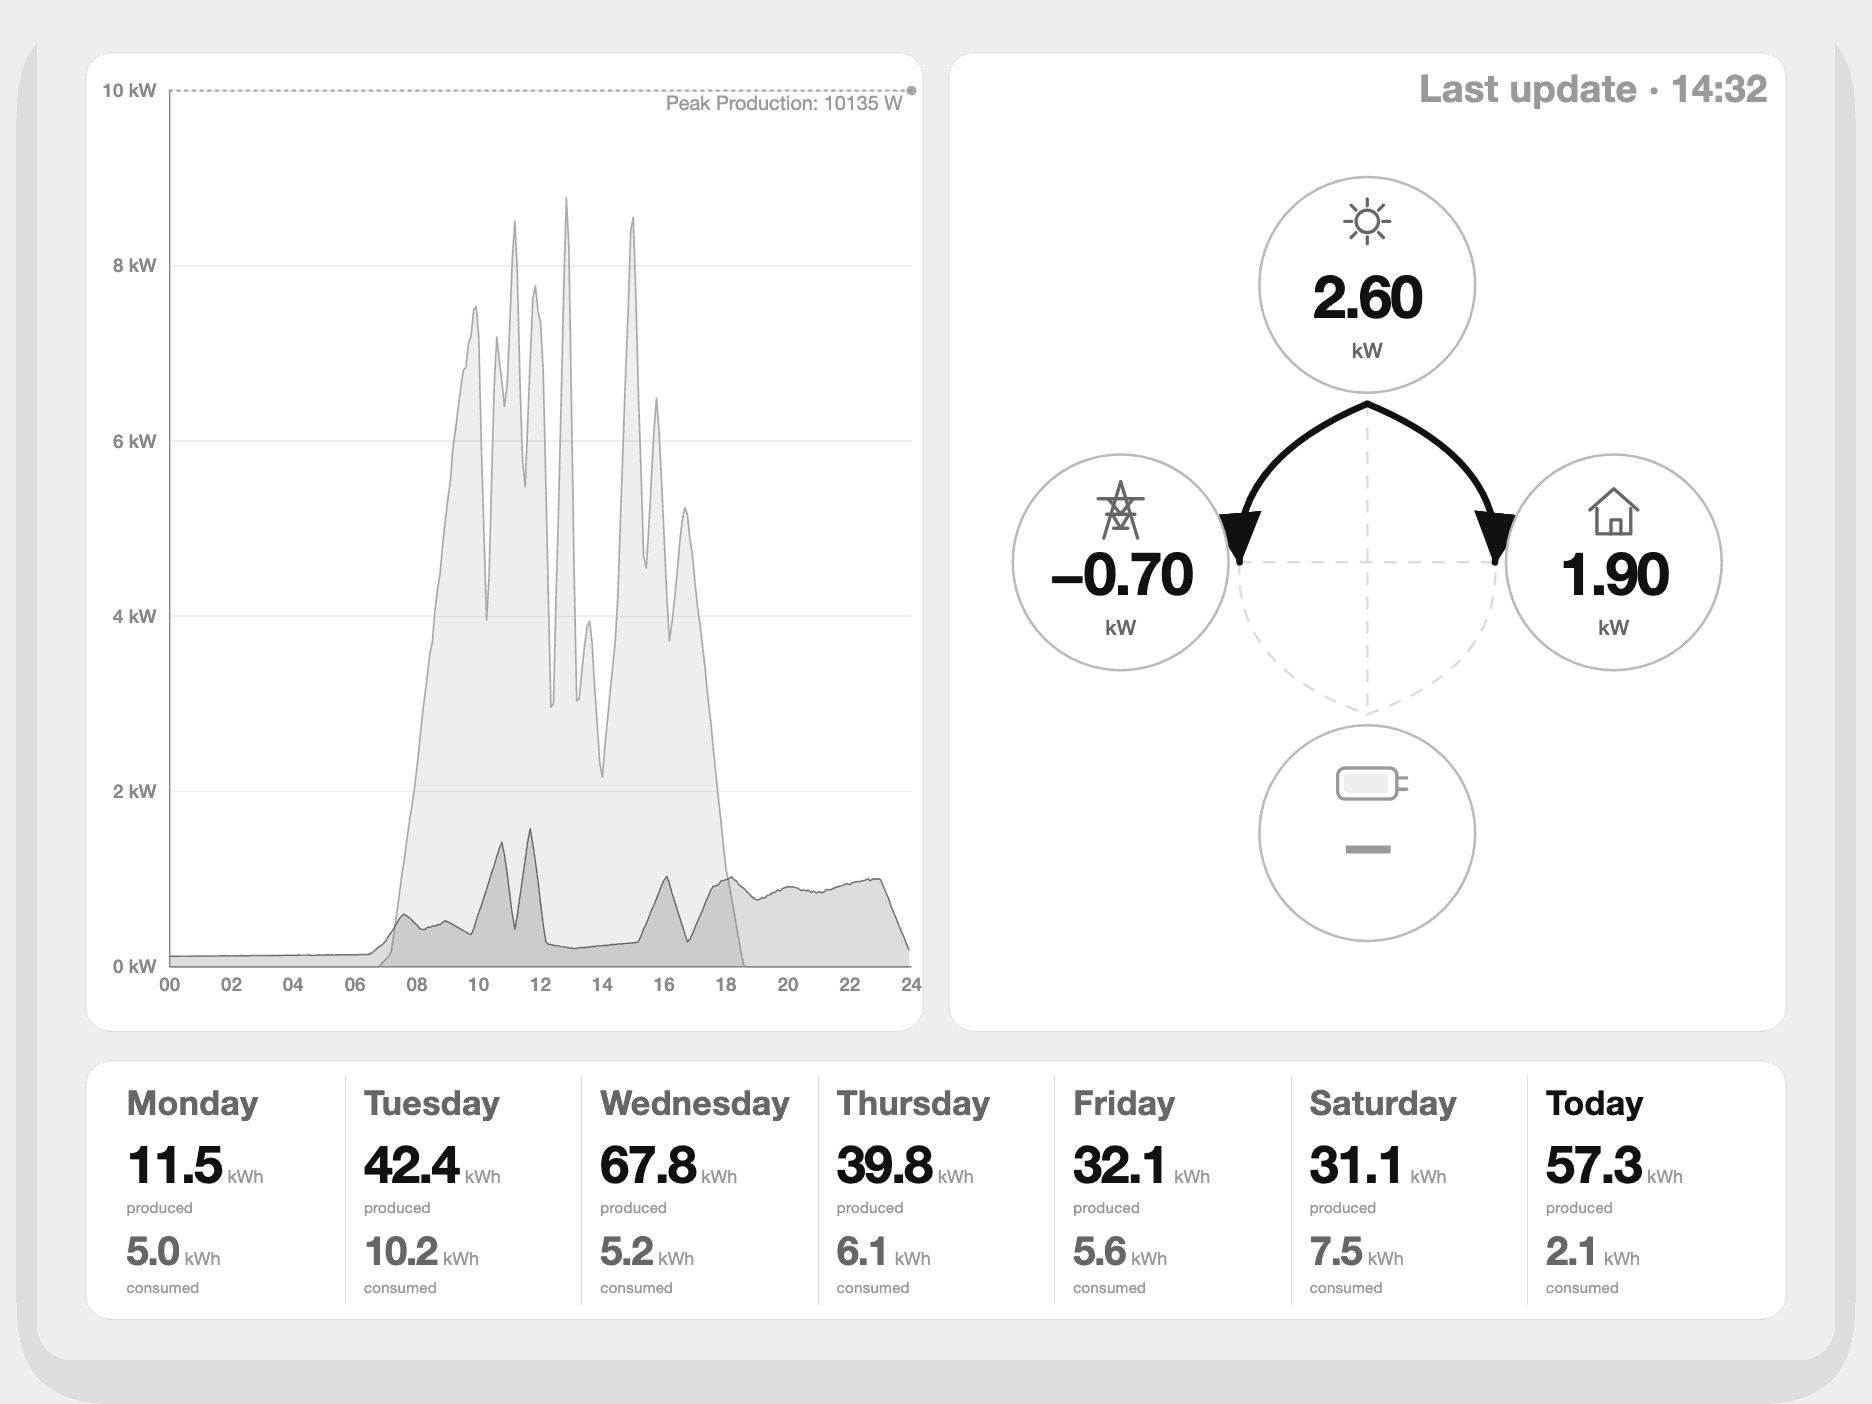
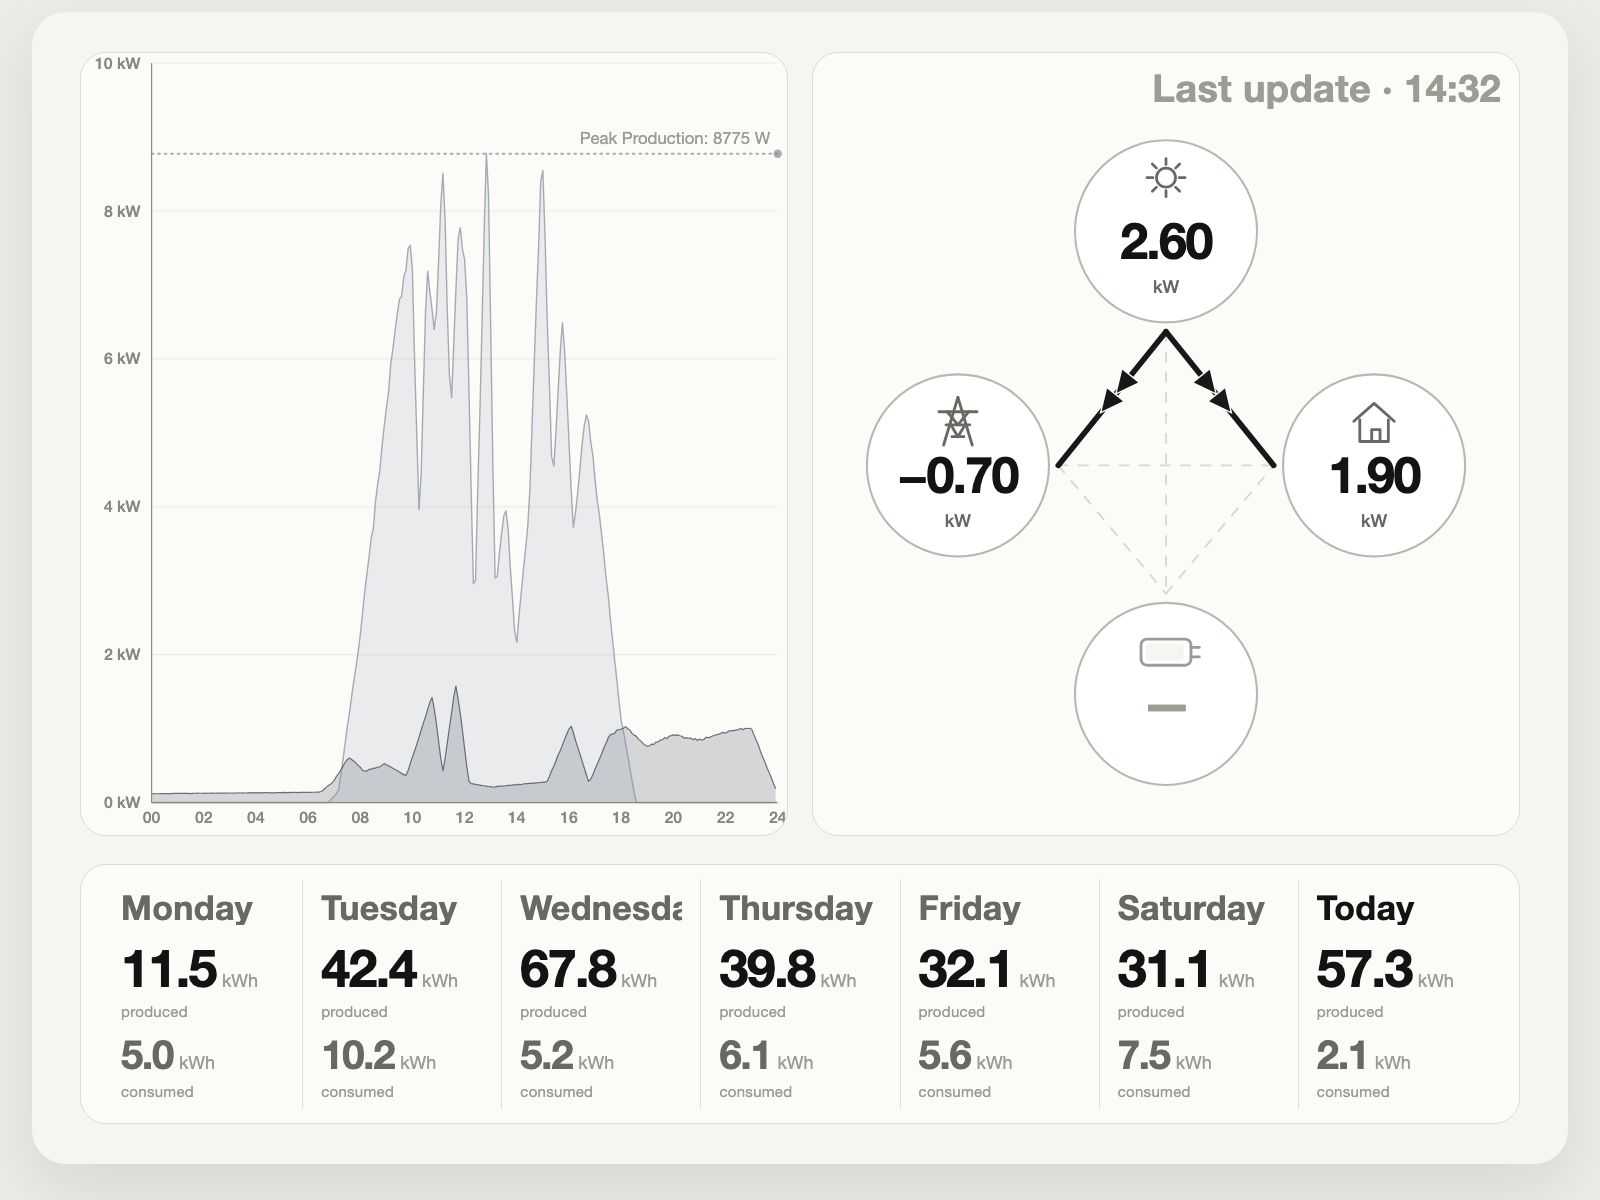
Polish live flow arrows and refresh docs

diff --git a/src/static/dashboard.css b/src/static/dashboard.css
@@ -229,6 +229,13 @@ body {
     stroke-width: 6;
 }
 
+.flow-arrow path {
+    fill: var(--flow-active);
+    stroke: var(--panel-bg);
+    stroke-width: 3;
+    paint-order: stroke fill;
+}
+
 .flow-state {
     fill: var(--text-muted);
     font-family: inherit;

diff --git a/src/html_renderer.py b/src/html_renderer.py
@@ -22,7 +22,7 @@ _FLOW_KEYS = [
     ("grid", "battery"),
     ("battery", "home"),
 ]
-_STRAIGHT_PATHS = {("solar", "battery"), ("grid", "home")}
+_STRAIGHT_PATHS = set(_FLOW_KEYS)
 
 
 def _local_timezone() -> ZoneInfo:
@@ -223,6 +223,42 @@ def _flow_path_d(
     )
 
 
+def _flow_point_and_angle(
+    key: tuple[str, str],
+    start: tuple[float, float],
+    end: tuple[float, float],
+    center: tuple[float, float],
+    *,
+    t: float = 0.5,
+    is_straight: bool,
+) -> tuple[float, float, float]:
+    if is_straight:
+        mid_x = start[0] + ((end[0] - start[0]) * t)
+        mid_y = start[1] + ((end[1] - start[1]) * t)
+        dx = end[0] - start[0]
+        dy = end[1] - start[1]
+    else:
+        control_points = {
+            ("solar", "grid"): (center[0] - 124, center[1] - 92),
+            ("solar", "home"): (center[0] + 126, center[1] - 92),
+            ("grid", "battery"): (center[0] - 122, center[1] + 96),
+            ("battery", "home"): (center[0] + 122, center[1] + 96),
+        }
+        cx, cy = control_points.get(key, center)
+        mt = 1 - t
+        mid_x = (mt * mt * start[0]) + (2 * mt * t * cx) + (t * t * end[0])
+        mid_y = (mt * mt * start[1]) + (2 * mt * t * cy) + (t * t * end[1])
+        dx = 2 * mt * (cx - start[0]) + 2 * t * (end[0] - cx)
+        dy = 2 * mt * (cy - start[1]) + 2 * t * (end[1] - cy)
+
+    angle = 0.0
+    if dx or dy:
+        import math
+
+        angle = math.degrees(math.atan2(dy, dx))
+    return mid_x, mid_y, angle
+
+
 def _build_flow_svg(data: DashboardData, language: str) -> Markup:
     width, height = 760, 760
     cx = width / 2
@@ -257,6 +293,7 @@ def _build_flow_svg(data: DashboardData, language: str) -> Markup:
         )
 
     path_markup: list[str] = []
+    arrow_markup: list[str] = []
     for key in _FLOW_KEYS:
         path_d = _flow_path_d(
             key,
@@ -278,8 +315,26 @@ def _build_flow_svg(data: DashboardData, language: str) -> Markup:
                 is_straight=key in _STRAIGHT_PATHS,
             )
             path_markup.append(
-                f'<path class="flow-path flow-path--active" d="{path_d}" marker-end="url(#flow-arrow-active)" />'
+                f'<path class="flow-path flow-path--active" d="{path_d}" />'
             )
+            arrow_x, arrow_y, arrow_angle = _flow_point_and_angle(
+                key,
+                edges[key[0]],
+                edges[key[1]],
+                center,
+                t=0.5,
+                is_straight=key in _STRAIGHT_PATHS,
+            )
+            import math
+
+            offset_dx = math.cos(math.radians(arrow_angle)) * 13
+            offset_dy = math.sin(math.radians(arrow_angle)) * 13
+            for direction in (-1, 1):
+                arrow_markup.append(
+                    f'<g class="flow-arrow" transform="translate({arrow_x + (direction * offset_dx):.1f} {arrow_y + (direction * offset_dy):.1f}) rotate({arrow_angle:.1f})">'
+                    '<path d="M -18 -11 L 5 0 L -18 11 Z" />'
+                    '</g>'
+                )
 
     node_state = _node_state(data, language)
     node_markup: list[str] = []
@@ -309,13 +364,11 @@ def _build_flow_svg(data: DashboardData, language: str) -> Markup:
 
     svg = f"""
     <svg class="flow-svg" viewBox="0 0 {width} {height}" xmlns="{SVG_NS}" role="img" aria-label="{escape(tr(language, 'flow_aria'))}">
-      <defs>
-        <marker id="flow-arrow-active" markerWidth="11" markerHeight="11" refX="7.5" refY="4" orient="auto" markerUnits="strokeWidth">
-          <path d="M0,0 L0,8 L8,4 z" fill="var(--flow-active)" />
-        </marker>
-      </defs>
       <g class="flow-paths">
         {''.join(path_markup)}
+      </g>
+      <g class="flow-arrows">
+        {''.join(arrow_markup)}
       </g>
       <g class="flow-nodes">
         {''.join(node_markup)}
@@ -361,10 +414,10 @@ def _build_chart_svg(data: DashboardData, language: str) -> Markup:
         return plot_left + (plot_width * hours / 24.0)
 
     buckets = data.chart_buckets
+    chart_peak_production_w = max((bucket.p_w_avg for bucket in buckets), default=0.0)
     max_power = max(
-        max((bucket.p_w_avg for bucket in buckets), default=0.0),
+        chart_peak_production_w,
         max((bucket.c_w_avg for bucket in buckets), default=0.0),
-        data.peak_production_w,
     )
     padded_peak = max_power * 1.02
     y_max = max(4000, int(((padded_peak + 1999) // 2000) * 2000))
@@ -409,8 +462,9 @@ def _build_chart_svg(data: DashboardData, language: str) -> Markup:
     consumption_line = _chart_line_path(consumption_points)
     peak_line_markup = ""
     peak_label_markup = ""
-    if data.peak_production_w > 0:
-        peak_y = power_to_y(data.peak_production_w)
+    marker_peak_w = chart_peak_production_w or data.peak_production_w
+    if marker_peak_w > 0:
+        peak_y = power_to_y(marker_peak_w)
         label_y = min(max(plot_top + 18, peak_y - 10), plot_bottom - 8)
         peak_line_markup = (
             f'<line class="chart-peak-line" x1="{plot_left:.1f}" y1="{peak_y:.1f}" '
@@ -418,7 +472,7 @@ def _build_chart_svg(data: DashboardData, language: str) -> Markup:
             f'<circle class="chart-peak-dot" cx="{plot_right:.1f}" cy="{peak_y:.1f}" r="4.5" />'
         )
         peak_label = (
-            f"{tr(language, 'peak_production')}: {_format_watts_label(data.peak_production_w)}"
+            f"{tr(language, 'peak_production')}: {_format_watts_label(marker_peak_w)}"
         )
         peak_label_markup = (
             f'<text class="chart-peak-label" x="{plot_right - 8:.1f}" y="{label_y:.1f}" '

diff --git a/tests/test_html_renderer.py b/tests/test_html_renderer.py
@@ -77,7 +77,7 @@ def test_peak_marker_uses_raw_peak_for_y_scale_not_only_bucket_average():
 
     chart = str(build_dashboard_context(data)["chart_svg"])
 
-    assert 'Peak Production: 10135 W' in chart
+    assert 'Peak Production: 5200 W' in chart
     assert '<line class="chart-peak-line" x1="76.0" y1="10.0"' not in chart
 
 
@@ -174,6 +174,18 @@ def test_flask_preview_scenario_preserves_peak_marker():
     assert response.status_code == 200
     assert "chart-peak-line" in body
     assert "Peak Production: 1221 W" in body
+
+
+def test_flow_active_paths_use_midline_arrow_glyphs():
+    data = DashboardData(
+        live=_make_live(p_w=4200, c_w=1800, bc_w=800, bd_w=0),
+        daily_history=_make_history(),
+    )
+
+    flow_svg = str(build_dashboard_context(data)["flow_svg"])
+
+    assert 'marker-end=' not in flow_svg
+    assert flow_svg.count('class="flow-arrow"') >= 2
 
 
 def test_flask_preview_scenarios_index_lists_links():

diff --git a/README.md b/README.md
@@ -13,8 +13,9 @@ A Raspberry Pi wall dashboard for Solar Manager with a Figma-aligned HTML/CSS/SV
 The current main dashboard contains:
 
 - live flow panel with `Solar`, `Grid`, `Home`, and `Battery`
+- straight live-flow paths with centered double arrowheads on active connections
 - current-day 24h chart for production vs. consumption
-- peak production marker line with current-day max production
+- peak production marker line aligned to the displayed production curve
 - 7-day history strip with `produced` and `consumed`
 - mock preview, state/scenario previews, and live preview from a real Solar Manager gateway
 - optional HTML-to-PNG export path for the E-Ink target
@@ -152,6 +153,7 @@ Notes:
 - `src/renderer.py` still exists as a legacy PNG/Pillow fallback via `/dashboard.png`
 - mock mode and live mode use separate SQLite databases
 - the optional cloud backfill uses `/v1/statistics/gateways/{smId}` and `/v3/users/{smId}/data/range`
+- active live-flow paths currently use straight 45°/orthogonal lines with centered double arrowheads
 
 ## Domain Rules
 
@@ -215,7 +217,7 @@ What is already working:
 - scenario previews for common flow states
 - correct local persistence and current-day aggregation
 - Figma-aligned HTML/CSS/SVG renderer
-- peak-production marker in the 24h chart
+- peak-production marker in the 24h chart aligned to the visible production curve
 - PNG export from the HTML renderer
 - optional i18n for `EN`, `DE`, `FR`, `IT`
 - optional cloud backfill for missing daily history and the current-day startup gap

diff --git a/CLAUDE.md b/CLAUDE.md
@@ -87,11 +87,13 @@ Optional legacy fallback:
 - **`soc=0` is a valid value** (empty battery). Only `soc is None` means "no battery present".
 - **Current main screen:** live flow + 24h chart + 7-day history. No device list, no PV-performance block, no extra KPI-card section.
 - **The 24h chart includes a peak-production guide derived from the real max production of the current day.**
+- **The peak-production guide must align to the displayed production curve, not a detached raw spike above it.**
 - **7-day history is energy history, so it must use `kWh`, not `kW`.**
 - **Car/EV SOC must not be treated as home battery SOC.**
 - **The 7-day history must always show 7 columns with today on the far right; missing days render as `0.0`.**
 - **Localized weekday labels must stay short enough to avoid wrapping in `EN`, `DE`, `FR`, and `IT`.**
 - **For stale data, prefer a quiet stale marker in the update line over redundant warning text inside the flow panel.**
+- **Active live-flow paths currently use straight connections with centered double arrowheads. Do not revert to curved paths or marker-end arrows unless explicitly asked.**
 - **E-Ink constraints:** 16 grayscale levels, no color, optimize for readability at distance.
 - **Security by design:** No secrets in source, `.env.local` for credentials, dev server on localhost only, no Flask debug mode.
 - **Docs sync matters:** When the architecture or main screen changes, update `README.md`, `.ai/solar-manager-eink-dashboard-context.md`, and this file.
